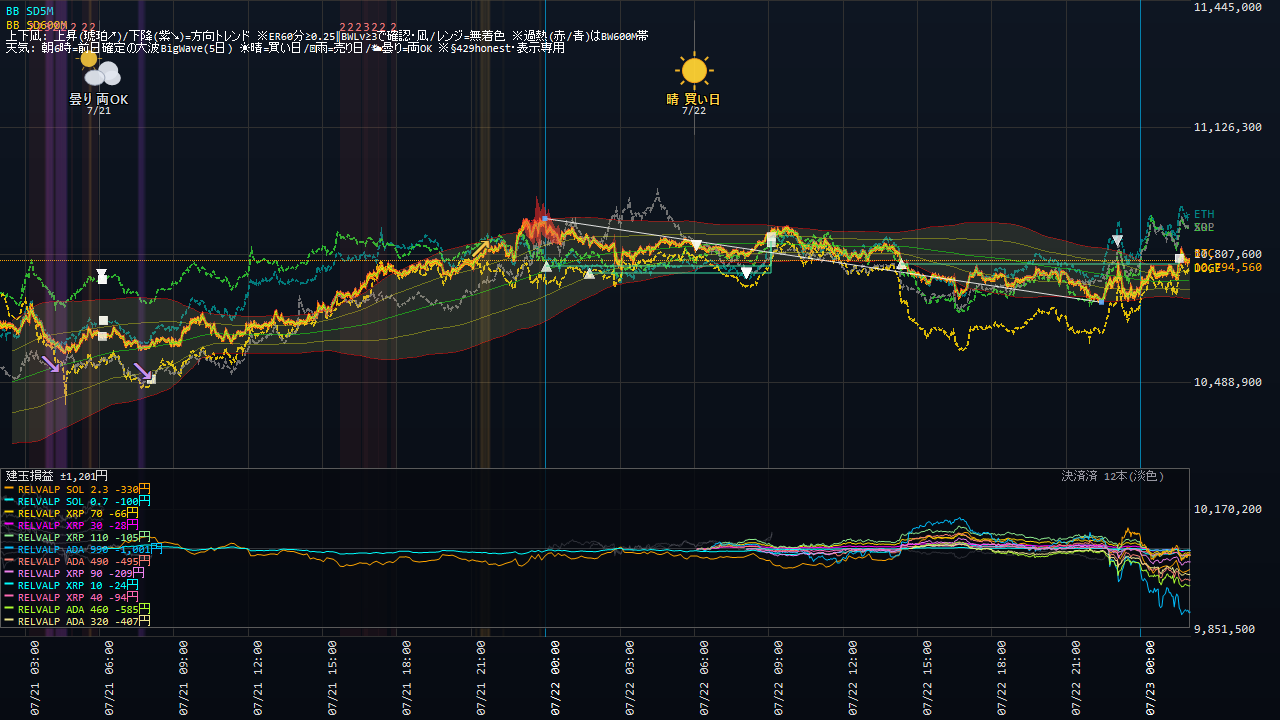
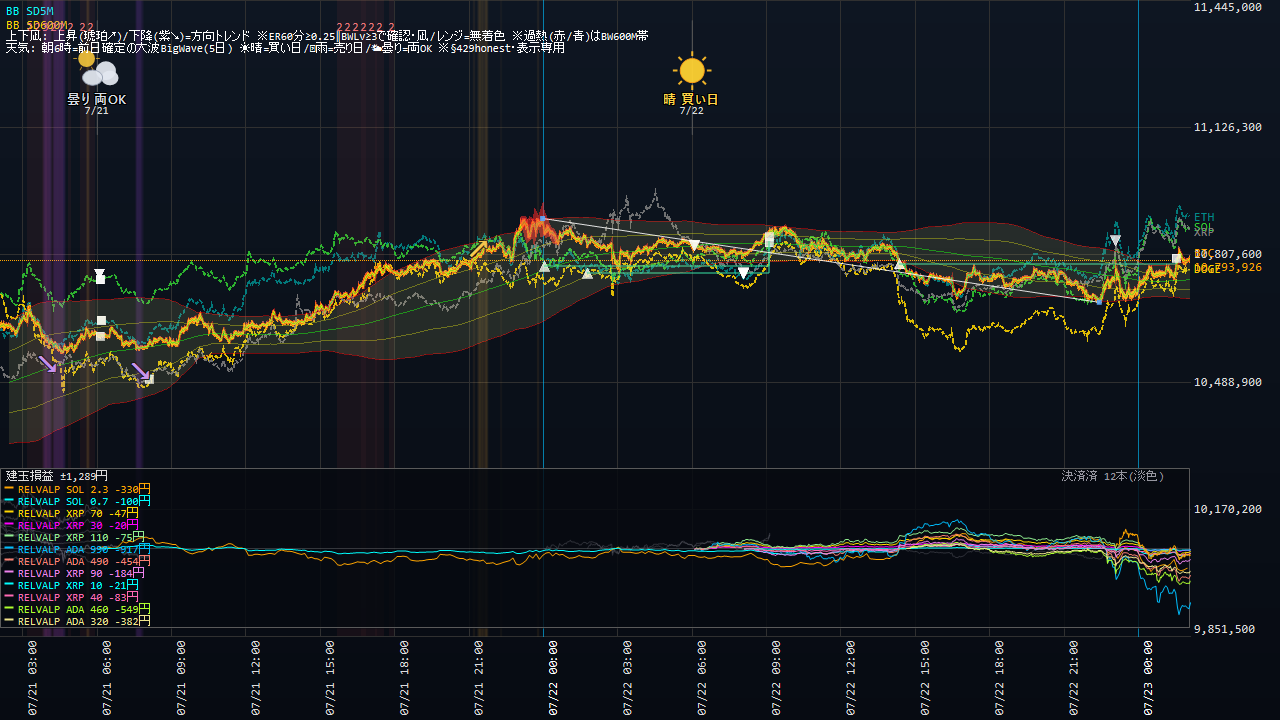
Coin100S 運用状況更新 07-23 02:11

diff --git a/coin100s-795hc4jfv8/index.html b/coin100s-795hc4jfv8/index.html
@@ -14,16 +14,16 @@ a{color:#60a5fa;text-decoration:none} a:hover{text-decoration:underline}
 .meta{color:#94a3b8;font-size:13px}</style>
 <script>setTimeout(function(){location.replace(location.pathname+"?t="+Date.now());},300000);</script></head><body>
 <h1>Coin100S ダッシュボード</h1>
-<p class="meta">スナップショット: 2026-07-23 02:05:05(自動リロード・最新化)</p>
+<p class="meta">スナップショット: 2026-07-23 02:11:05(自動リロード・最新化)</p>
 <div class="cards">
 <div class="card">建玉数<div class="v">13</div></div>
 <div class="card">本日損益<div class="v pos">+490円</div></div>
-<div class="card">評価損益<div class="v neg">-3,553円</div></div>
+<div class="card">評価損益<div class="v neg">-3,571円</div></div>
 </div>
 <h2>現在の建玉</h2>
-<table><tr><th>銘柄</th><th>側</th><th>数量</th><th>建値</th><th>含損益</th><th>レッグ</th></tr><tr><td>ADA_JPY</td><td>SELL</td><td>320</td><td>@28</td><td>-413円</td><td>RELVALP_SL700</td></tr><tr><td>ADA_JPY</td><td>SELL</td><td>460</td><td>@28</td><td>-594円</td><td>RELVALP_SELL</td></tr><tr><td>ADA_JPY</td><td>SELL</td><td>490</td><td>@28</td><td>-505円</td><td>RELVALP_SL700</td></tr><tr><td>ADA_JPY</td><td>SELL</td><td>990</td><td>@28</td><td>-1,020円</td><td>RELVALP_SELL</td></tr><tr><td>SOL_JPY</td><td>SELL</td><td>2.5</td><td>@12,763</td><td>-133円</td><td>SIGFADE_SOL</td></tr><tr><td>SOL_JPY</td><td>SELL</td><td>0.7</td><td>@12,663</td><td>-108円</td><td>RELVALP_SL700</td></tr><tr><td>SOL_JPY</td><td>SELL</td><td>2.3</td><td>@12,663</td><td>-352円</td><td>RELVALP_SELL</td></tr><tr><td>XRP_JPY</td><td>SELL</td><td>40</td><td>@186</td><td>-83円</td><td>RELVALP_SL700</td></tr><tr><td>XRP_JPY</td><td>SELL</td><td>10</td><td>@186</td><td>-21円</td><td>RELVALP_SELL</td></tr><tr><td>XRP_JPY</td><td>SELL</td><td>90</td><td>@186</td><td>-183円</td><td>RELVALP_SELL</td></tr><tr><td>XRP_JPY</td><td>SELL</td><td>110</td><td>@187</td><td>-74円</td><td>RELVALP_SELL</td></tr><tr><td>XRP_JPY</td><td>SELL</td><td>30</td><td>@187</td><td>-20円</td><td>RELVALP_SELL</td></tr><tr><td>XRP_JPY</td><td>SELL</td><td>70</td><td>@187</td><td>-47円</td><td>RELVALP_SL700</td></tr></table>
+<table><tr><th>銘柄</th><th>側</th><th>数量</th><th>建値</th><th>含損益</th><th>レッグ</th></tr><tr><td>ADA_JPY</td><td>SELL</td><td>320</td><td>@28</td><td>-413円</td><td>RELVALP_SL700</td></tr><tr><td>ADA_JPY</td><td>SELL</td><td>460</td><td>@28</td><td>-594円</td><td>RELVALP_SELL</td></tr><tr><td>ADA_JPY</td><td>SELL</td><td>490</td><td>@28</td><td>-505円</td><td>RELVALP_SL700</td></tr><tr><td>ADA_JPY</td><td>SELL</td><td>990</td><td>@28</td><td>-1,020円</td><td>RELVALP_SELL</td></tr><tr><td>SOL_JPY</td><td>SELL</td><td>2.5</td><td>@12,763</td><td>-133円</td><td>SIGFADE_SOL</td></tr><tr><td>SOL_JPY</td><td>SELL</td><td>0.7</td><td>@12,663</td><td>-108円</td><td>RELVALP_SL700</td></tr><tr><td>SOL_JPY</td><td>SELL</td><td>2.3</td><td>@12,663</td><td>-352円</td><td>RELVALP_SELL</td></tr><tr><td>XRP_JPY</td><td>SELL</td><td>40</td><td>@186</td><td>-85円</td><td>RELVALP_SL700</td></tr><tr><td>XRP_JPY</td><td>SELL</td><td>10</td><td>@186</td><td>-22円</td><td>RELVALP_SELL</td></tr><tr><td>XRP_JPY</td><td>SELL</td><td>90</td><td>@186</td><td>-188円</td><td>RELVALP_SELL</td></tr><tr><td>XRP_JPY</td><td>SELL</td><td>110</td><td>@187</td><td>-79円</td><td>RELVALP_SELL</td></tr><tr><td>XRP_JPY</td><td>SELL</td><td>30</td><td>@187</td><td>-22円</td><td>RELVALP_SELL</td></tr><tr><td>XRP_JPY</td><td>SELL</td><td>70</td><td>@187</td><td>-50円</td><td>RELVALP_SL700</td></tr></table>
 <p><a href="status.html"><b>▶ 運用状況の詳細(チャート・本日の取引・レジーム)</b></a></p>
 <h2>日報一覧</h2>
 <table><tr><th>取引日</th><th>実現損益</th><th>総括</th></tr><tr><td><a href='reports/20260721_Coin100S日報.html'>2026-07-21</a></td><td class="pos">+0円</td><td class='meta'>実取引: 新規4件/決済13件、実現損益 +0円。⚠警告/エラー 13件（要確認）。</td></tr><tr><td><a href='reports/20260720_Coin100S日報.html'>2026-07-20</a></td><td class="pos">+0円</td><td class='meta'>実取引: 新規8件/決済21件、実現損益 +0円。シグナル却下8件（最多: BW10M3_5M／トレンド方向ゲート(N分傾き上と不一致=逆張り方向のfade禁止)）。⚠警告/エラー 13件（要確認）。</td></tr><tr><td><a href='reports/20260719_Coin100S日報.html'>2026-07-19</a></td><td class="pos">+0円</td><td class='meta'>実取引: 新規10件/決済7件、実現損益 +0円。⚠警告/エラー 3件（要確認）。</td></tr><tr><td><a href='reports/20260718_Coin100S日報.html'>2026-07-18</a></td><td class="pos">+0円</td><td class='meta'>実取引: 新規9件/決済8件、実現損益 +0円。警告/孤児/エラーなし＝健全。</td></tr><tr><td><a href='reports/20260717_Coin100S日報.html'>2026-07-17</a></td><td class="pos">+0円</td><td class='meta'>実取引: 新規3件/決済2件、実現損益 +0円。シグナル却下1件（最多: BW10M3_5M／トレンド方向ゲート(N分傾き下と不一致=逆張り方向のfade禁止)）。⚠警告/エラー 2件（要確認）。</td></tr><tr><td><a href='reports/20260716_Coin100S日報.html'>2026-07-16</a></td><td class="pos">+0円</td><td class='meta'>実取引: 新規0件/決済5件、実現損益 +0円。⚠警告/エラー 7件（要確認）。</td></tr><tr><td><a href='reports/20260715_Coin100S日報.html'>2026-07-15</a></td><td class="pos">+0円</td><td class='meta'>実取引: 新規6件/決済5件、実現損益 +0円。シグナル却下6件（最多: BW10M3_5M／トレンド方向ゲート(N分傾き上と不一致=逆張り方向のfade禁止)）。⚠警告/エラー 7件（要確認）。</td></tr><tr><td><a href='reports/20260714_Coin100S日報.html'>2026-07-14</a></td><td class="pos">+0円</td><td class='meta'>実取引: 新規6件/決済18件、実現損益 +0円。シグナル却下5件（最多: BW10M3_5M／トレンド方向ゲート(N分傾き上と不一致=逆張り方向のfade禁止)）。⚠警告/エラー 9件（要確認）。</td></tr><tr><td><a href='reports/20260713_Coin100S日報.html'>2026-07-13</a></td><td class="pos">+0円</td><td class='meta'>実取引: 新規5件/決済8件、実現損益 +0円。シグナル却下1件（最多: BW10M3_5M／トレンド方向ゲート(N分傾き上と不一致=逆張り方向のfade禁止)）。警告/孤児/エラーなし＝健全。</td></tr><tr><td><a href='reports/20260712_Coin100S日報.html'>2026-07-12</a></td><td class="pos">+0円</td><td class='meta'>実取引: 新規14件/決済6件、実現損益 +0円。シグナル却下5件（最多: BW10M3_5M／トレンド方向ゲート(N分傾き下と不一致=逆張り方向のfade禁止)）。⚠警告/エラー 2件（要確認）。</td></tr><tr><td><a href='reports/20260711_Coin100S日報.html'>2026-07-11</a></td><td class="pos">+0円</td><td class='meta'>実取引: 新規7件/決済6件、実現損益 +0円。⚠警告/エラー 52件（要確認）。</td></tr><tr><td><a href='reports/20260710_Coin100S日報.html'>2026-07-10</a></td><td class="pos">+0円</td><td class='meta'>実取引: 新規7件/決済6件、実現損益 +0円。シグナル却下6件（最多: BW10M3_5M／トレンド方向ゲート(N分傾き上と不一致=逆張り方向のfade禁止)）。警告/孤児/エラーなし＝健全。</td></tr><tr><td><a href='reports/20260709_Coin100S日報.html'>2026-07-09</a></td><td class="pos">+0円</td><td class='meta'>実取引: 新規8件/決済3件、実現損益 +0円。シグナル却下5件（最多: SD120M_5M／トレンド方向ゲート(N分傾き上と不一致=逆張り方向のfade禁止)）。警告/孤児/エラーなし＝健全。</td></tr><tr><td><a href='reports/20260708_Coin100S日報.html'>2026-07-08</a></td><td class="pos">+0円</td><td class='meta'>実取引: 新規2件/決済4件、実現損益 +0円。シグナル却下4件（最多: SD120M_5M／トレンド方向ゲート(N分傾き下と不一致=逆張り方向のfade禁止)）。警告/孤児/エラーなし＝健全。</td></tr><tr><td><a href='reports/20260707_Coin100S日報.html'>2026-07-07</a></td><td class="pos">+0円</td><td class='meta'>実取引: 新規8件/決済6件、実現損益 +0円。シグナル却下4件（最多: SD120M_5M／トレンド方向ゲート(N分傾き上と不一致=逆張り方向のfade禁止)）。⚠警告/エラー 258件（要確認）。</td></tr><tr><td><a href='reports/20260706_Coin100S日報.html'>2026-07-06</a></td><td class="pos">+0円</td><td class='meta'>実取引: 新規9件/決済6件、実現損益 +0円。シグナル却下9件（最多: SD120M_5M／トレンド方向ゲート(N分傾き上と不一致=逆張り方向のfade禁止)）。⚠警告/エラー 150件（要確認）。</td></tr><tr><td><a href='reports/20260705_Coin100S日報.html'>2026-07-05</a></td><td class="pos">+0円</td><td class='meta'>実取引: 新規8件/決済3件、実現損益 +0円。⚠警告/エラー 2件（要確認）。</td></tr><tr><td><a href='reports/20260704_Coin100S日報.html'>2026-07-04</a></td><td class="pos">+0円</td><td class='meta'>実取引: 新規1件/決済2件、実現損益 +0円。⚠警告/エラー 2件（要確認）。</td></tr><tr><td><a href='reports/20260703_Coin100S日報.html'>2026-07-03</a></td><td class="pos">+0円</td><td class='meta'>実取引: 新規5件/決済4件、実現損益 +0円。⚠警告/エラー 15件（要確認）。</td></tr><tr><td><a href='reports/20260702_Coin100S日報.html'>2026-07-02</a></td><td class="pos">+0円</td><td class='meta'>実取引: 新規7件/決済5件、実現損益 +0円。シグナル却下17件（最多: SD120M_5M／トレンド方向ゲート(N分傾き上と不一致=逆張り方向のfade禁止)）。⚠警告/エラー 26件（要確認）。</td></tr><tr><td><a href='reports/20260701_Coin100S日報.html'>2026-07-01</a></td><td class="pos">+0円</td><td class='meta'>実取引: 新規14件/決済8件、実現損益 +0円。シグナル却下14件（最多: SD120M_5M／ボラ軸ゲート(SDN%&amp;gt;N%=高ボラ/荒れレンジ)）。⚠警告/エラー 2件（要確認）。</td></tr><tr><td><a href='reports/20260630_Coin100S日報.html'>2026-06-30</a></td><td class="pos">+0円</td><td class='meta'>実取引: 新規0件/決済1件、実現損益 +0円。シグナル却下29件（最多: 微5M／当日枠N）。警告/孤児/エラーなし＝健全。</td></tr></table>
-<hr><p class="meta">更新: 2026-07-23 02:05:06 / 自動生成: tools/web_publish.py(§580)</p>
+<hr><p class="meta">更新: 2026-07-23 02:11:05 / 自動生成: tools/web_publish.py(§580)</p>
 </body></html>

diff --git a/coin100s-795hc4jfv8/status.html b/coin100s-795hc4jfv8/status.html
@@ -14,22 +14,22 @@ a{color:#60a5fa;text-decoration:none} a:hover{text-decoration:underline}
 .meta{color:#94a3b8;font-size:13px}</style>
 <script>setTimeout(function(){location.replace(location.pathname+"?t="+Date.now());},300000);</script></head><body>
 <h1>Coin100S 運用状況</h1>
-<p class="meta">スナップショット: 2026-07-23 02:04:35 / ページ生成: 2026-07-23 02:05:06(自動リロード・最新化) / <a href="index.html">目次へ</a></p>
+<p class="meta">スナップショット: 2026-07-23 02:10:35 / ページ生成: 2026-07-23 02:11:05(自動リロード・最新化) / <a href="index.html">目次へ</a></p>
 <div class="cards">
 <div class="card">建玉数<div class="v">13</div></div>
 <div class="card">本日損益<div class="v pos">+490円</div></div>
-<div class="card">評価損益<div class="v neg">-3,536円</div></div>
+<div class="card">評価損益<div class="v neg">-3,567円</div></div>
 </div>
 <h2>資産推移(直近30日)</h2>
-<img src="status_equity.png?t=0205" alt="equity">
+<img src="status_equity.png?t=0211" alt="equity">
 <h2>取引チャート(直近24h)</h2>
-<img src="status_chart.png?t=0205" alt="chart">
+<img src="status_chart.png?t=0211" alt="chart">
 <h2>建玉一覧</h2>
-<table><tr><th>銘柄</th><th>側</th><th>数量</th><th>建値</th><th>含損益</th><th>レッグ</th></tr><tr><td>ADA_JPY</td><td>SELL</td><td>320</td><td>@28</td><td>-413円</td><td>RELVALP_SL700</td></tr><tr><td>ADA_JPY</td><td>SELL</td><td>460</td><td>@28</td><td>-594円</td><td>RELVALP_SELL</td></tr><tr><td>ADA_JPY</td><td>SELL</td><td>490</td><td>@28</td><td>-505円</td><td>RELVALP_SL700</td></tr><tr><td>ADA_JPY</td><td>SELL</td><td>990</td><td>@28</td><td>-1,020円</td><td>RELVALP_SELL</td></tr><tr><td>SOL_JPY</td><td>SELL</td><td>2.5</td><td>@12,763</td><td>-133円</td><td>SIGFADE_SOL</td></tr><tr><td>SOL_JPY</td><td>SELL</td><td>0.7</td><td>@12,663</td><td>-108円</td><td>RELVALP_SL700</td></tr><tr><td>SOL_JPY</td><td>SELL</td><td>2.3</td><td>@12,663</td><td>-352円</td><td>RELVALP_SELL</td></tr><tr><td>XRP_JPY</td><td>SELL</td><td>40</td><td>@186</td><td>-81円</td><td>RELVALP_SL700</td></tr><tr><td>XRP_JPY</td><td>SELL</td><td>10</td><td>@186</td><td>-21円</td><td>RELVALP_SELL</td></tr><tr><td>XRP_JPY</td><td>SELL</td><td>90</td><td>@186</td><td>-178円</td><td>RELVALP_SELL</td></tr><tr><td>XRP_JPY</td><td>SELL</td><td>110</td><td>@187</td><td>-67円</td><td>RELVALP_SELL</td></tr><tr><td>XRP_JPY</td><td>SELL</td><td>30</td><td>@187</td><td>-18円</td><td>RELVALP_SELL</td></tr><tr><td>XRP_JPY</td><td>SELL</td><td>70</td><td>@187</td><td>-42円</td><td>RELVALP_SL700</td></tr></table>
+<table><tr><th>銘柄</th><th>側</th><th>数量</th><th>建値</th><th>含損益</th><th>レッグ</th></tr><tr><td>ADA_JPY</td><td>SELL</td><td>320</td><td>@28</td><td>-413円</td><td>RELVALP_SL700</td></tr><tr><td>ADA_JPY</td><td>SELL</td><td>460</td><td>@28</td><td>-594円</td><td>RELVALP_SELL</td></tr><tr><td>ADA_JPY</td><td>SELL</td><td>490</td><td>@28</td><td>-505円</td><td>RELVALP_SL700</td></tr><tr><td>ADA_JPY</td><td>SELL</td><td>990</td><td>@28</td><td>-1,020円</td><td>RELVALP_SELL</td></tr><tr><td>SOL_JPY</td><td>SELL</td><td>2.5</td><td>@12,763</td><td>-133円</td><td>SIGFADE_SOL</td></tr><tr><td>SOL_JPY</td><td>SELL</td><td>0.7</td><td>@12,663</td><td>-108円</td><td>RELVALP_SL700</td></tr><tr><td>SOL_JPY</td><td>SELL</td><td>2.3</td><td>@12,663</td><td>-352円</td><td>RELVALP_SELL</td></tr><tr><td>XRP_JPY</td><td>SELL</td><td>40</td><td>@186</td><td>-87円</td><td>RELVALP_SL700</td></tr><tr><td>XRP_JPY</td><td>SELL</td><td>10</td><td>@186</td><td>-22円</td><td>RELVALP_SELL</td></tr><tr><td>XRP_JPY</td><td>SELL</td><td>90</td><td>@186</td><td>-191円</td><td>RELVALP_SELL</td></tr><tr><td>XRP_JPY</td><td>SELL</td><td>110</td><td>@187</td><td>-83円</td><td>RELVALP_SELL</td></tr><tr><td>XRP_JPY</td><td>SELL</td><td>30</td><td>@187</td><td>-23円</td><td>RELVALP_SELL</td></tr><tr><td>XRP_JPY</td><td>SELL</td><td>70</td><td>@187</td><td>-53円</td><td>RELVALP_SL700</td></tr></table>
 <h2>実現決済履歴(直近15件・OrderId単位)</h2>
 <table><tr><th>決済時刻</th><th>レッグ</th><th>銘柄</th><th>実現損益</th></tr><tr><td>07-23 01:34</td><td>SIGFADE_BTC</td><td>BTC</td><td class="pos">+27円</td></tr><tr><td>07-22 09:08</td><td>SIGFADE_SOL</td><td>SOL</td><td class="pos">+220円</td></tr><tr><td>07-22 09:08</td><td>SIGFADE_ETH</td><td>ETH</td><td class="pos">+243円</td></tr><tr><td>07-21 08:07</td><td>TENKI5D_REV_DOGE</td><td>DOGE</td><td class="neg">-210円</td></tr><tr><td>07-21 06:11</td><td>TENKI5D_REV_ETH</td><td>ETH</td><td class="pos">+622円</td></tr><tr><td>07-21 06:11</td><td>TENKI5D_REV_ETH</td><td>ETH</td><td class="pos">+124円</td></tr><tr><td>07-21 06:09</td><td>TENKI5D_REV_SOL</td><td>SOL</td><td class="pos">+287円</td></tr><tr><td>07-21 06:09</td><td>TENKI5D_REV_SOL</td><td>SOL</td><td class="pos">+454円</td></tr><tr><td>07-21 06:09</td><td>TENKI5D_REV_BTC</td><td>BTC</td><td class="pos">+649円</td></tr><tr><td>07-21 06:08</td><td>RELVALP_SELL</td><td>LTC</td><td class="neg">-267円</td></tr><tr><td>07-21 06:08</td><td>RELVALP_SL700</td><td>LTC</td><td class="neg">-90円</td></tr><tr><td>07-20 23:29</td><td>BW10M3_5M</td><td>BTC</td><td class="neg">-45円</td></tr><tr><td>07-20 10:58</td><td>BW10M3_5M</td><td>BTC</td><td class="pos">+7円</td></tr><tr><td>07-20 09:56</td><td>BW10M3_5M</td><td>BTC</td><td class="neg">-6円</td></tr><tr><td>07-20 09:11</td><td>SIGFADE_ETH</td><td>ETH</td><td class="pos">+370円</td></tr></table>
 <!-- §799c 「本取引日の実取引(6:00起点)」テーブルは公開ページから削除(ユーザー指示2026-07-15・数量/指値まで晒す情報漏れ)。建玉/実現損益は許可・実発注の生取引明細は非公開 -->
 <h2>現在レジーム(3軸・§570c)</h2>
-<ul><li>アルト対BTC 5日: <b>-85bps</b>(アルト劣後=RELVAL順風)</li><li>BTC ER240m: <b>0.083</b>(閾値0.25→レンジ(fade順風/BWTRD逆風))</li><li>BTC実現ボラ240m: <b>5.76</b> bps/分</li></ul>
+<ul><li>アルト対BTC 5日: <b>-85bps</b>(アルト劣後=RELVAL順風)</li><li>BTC ER240m: <b>0.076</b>(閾値0.25→レンジ(fade順風/BWTRD逆風))</li><li>BTC実現ボラ240m: <b>5.78</b> bps/分</li></ul>
 <hr><p class="meta">自動生成: tools/web_publish.py(§580・読み取り専用)。売買判断はアプリ本体。</p>
 </body></html>
